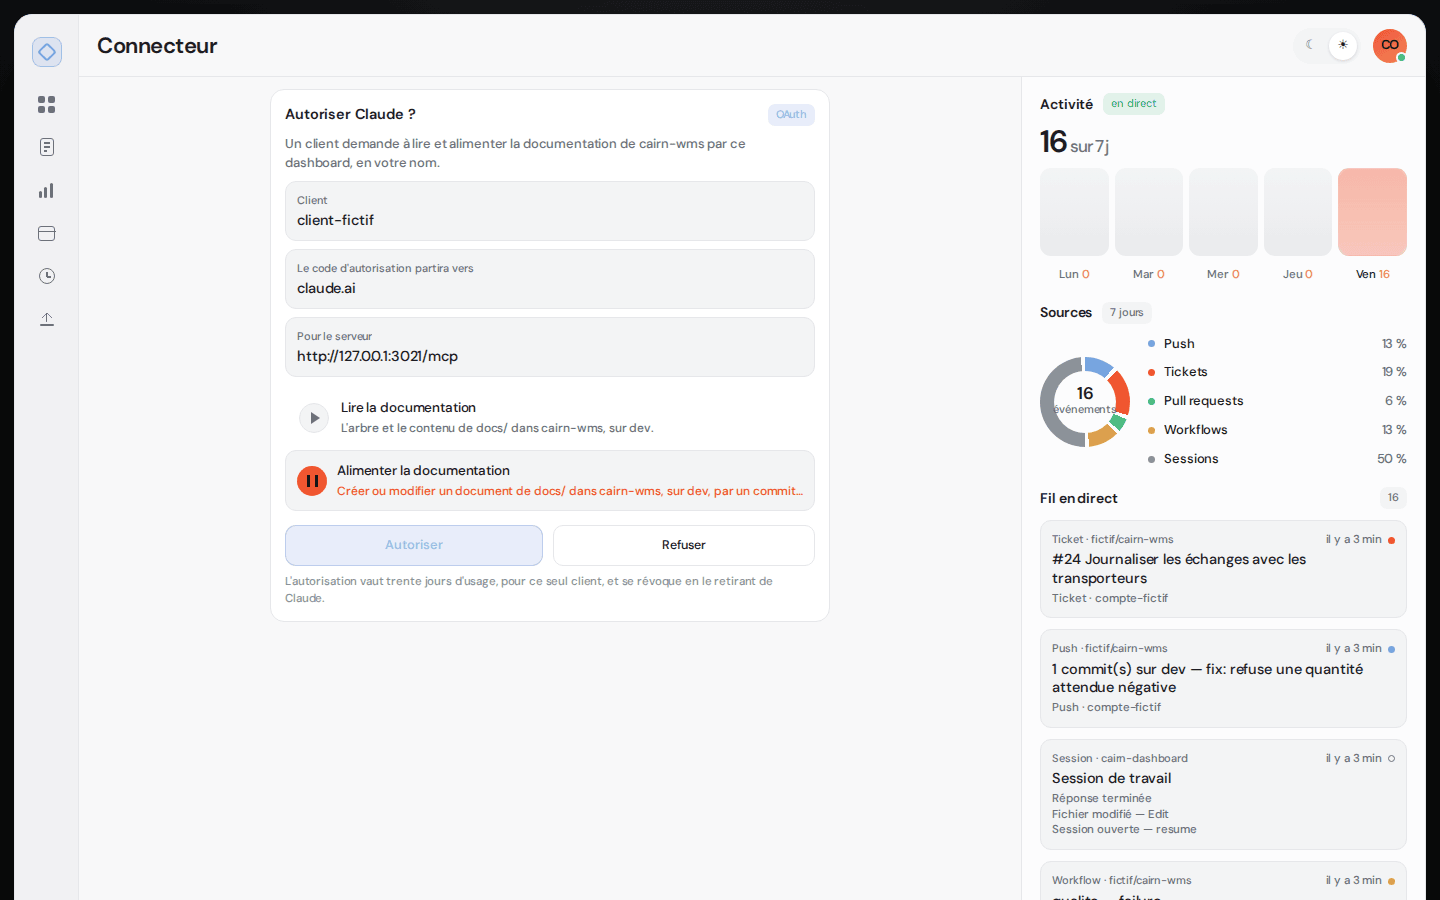
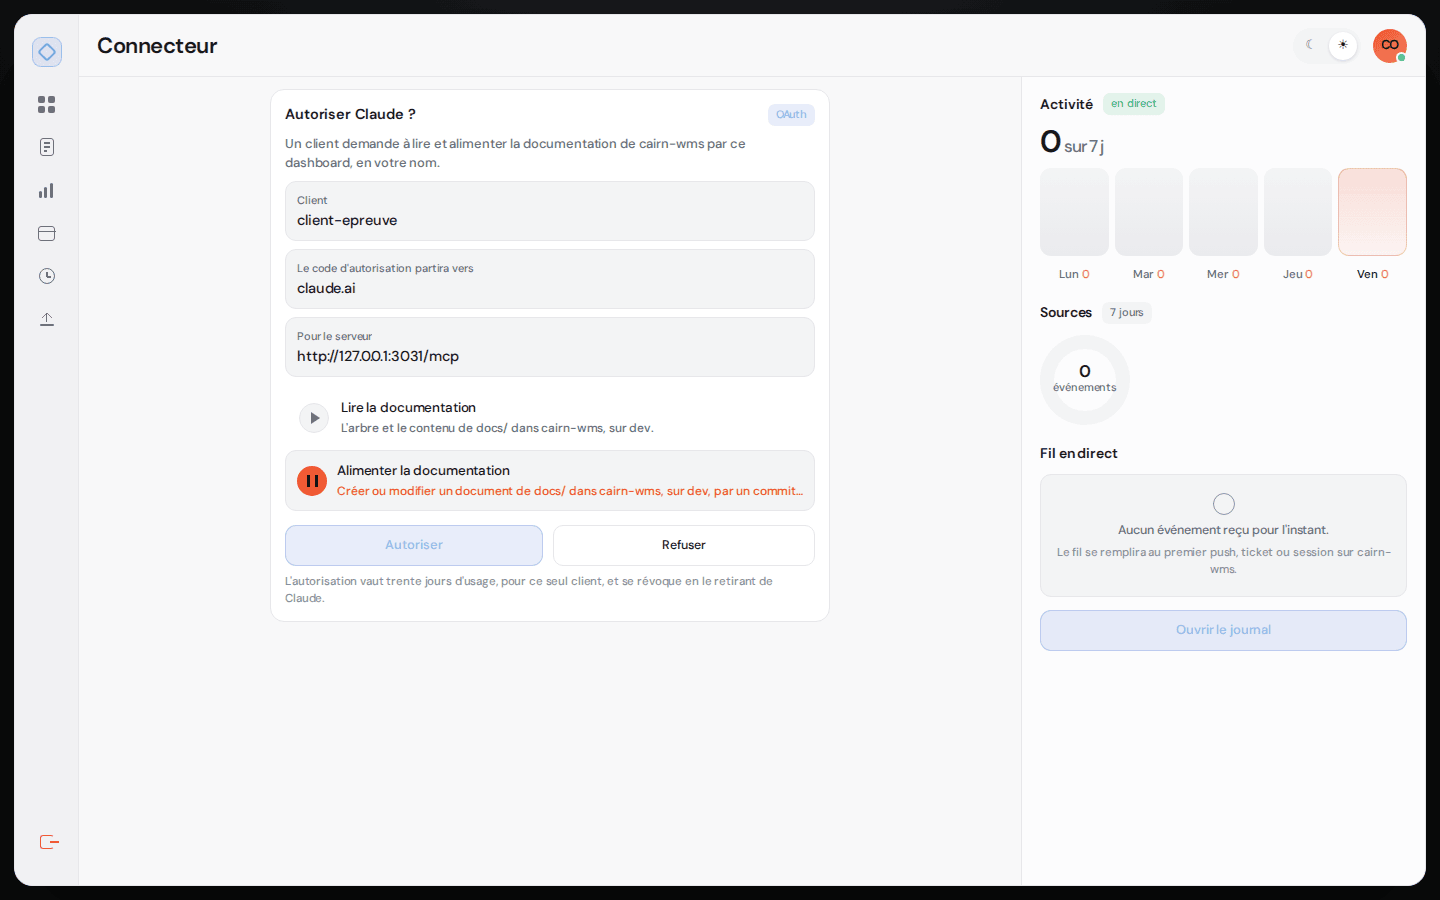
docs: livre la tranche 7, constatée avec le vrai client (#7)
Pull request #25 fusionnée par Lucas, SHA 5ef47fa déployé, contrat de
service et découverte OAuth vérifiés de l'extérieur. Claude a lu README.md
puis écrit le commit 4598471 sur dev de cairn-wms, docs/README.md, message
docs: — les deux conditions de l'issue #7, avec le client réel. Captures du
consentement refaites sur l'image de production.

diff --git a/journal/2026-09-18-2037-tranche-7-fiche-0011.md b/journal/2026-09-18-2037-tranche-7-fiche-0011.md
@@ -94,7 +94,31 @@ et comment, et elle est actée d'abord. Cette session établit les faits et écr
   - **le test de fumée** sur l'image construite, contre le vrai cairn-wms en lecture : les mêmes
     refus, le parcours complet jusqu'à `lister_documents` sur l'arbre réel, la rotation, le rejeu,
     et `/health` qui signale `connecteur: client-absent` sans configuration.
-- **Capturé l'écran de consentement**, sur données fictives, deux thèmes, deux largeurs — joint.
+- **Capturé l'écran de consentement**, sur données fictives, deux thèmes, deux largeurs — puis
+  refait sur l'image exacte de production lancée sur le poste, avec une demande en attente : ce
+  sont ces captures-là qui sont jointes.
+
+### Livraison
+
+- **Lucas a posé les deux variables dans Coolify et élargi le jeton**, puis fusionné la pull
+  request #25 (`dev` → `main`). `deploiement.yml` a déployé `5ef47fa` ; `/health` à 200 au
+  premier essai, avec `connecteur: ok`.
+- **Vérifié de l'extérieur** : `/version` sert `5ef47fa` ; les métadonnées de ressource et
+  du serveur d'autorisation sont publiques et désignent `https://monitoring.cairn-wms.fr` ; `/mcp`
+  sans jeton répond 401 avec `WWW-Authenticate: Bearer resource_metadata="…/mcp",
+  scope="docs:read docs:write"` — la forme exacte que Claude attend.
+- **Le vrai client.** Lucas a ajouté le connecteur dans Claude — URL et identifiant client —, s'est
+  connecté et a consenti : le connecteur « CairnMCP » est apparu avec ses outils. Claude a lu
+  `README.md` par `lire_document`, puis a **écrit** : le commit `4598471`, « docs: retire la mention
+  (rédigé) répétée sur les modules de la couche 1 », sur `dev` de cairn-wms, `docs/README.md`,
+  +4/−4 — chemin, branche et préfixe conformes au cadrage. Les deux conditions de l'issue #7 sont
+  constatées avec le client réel, pas seulement par script.
+- **Ce que le vrai client a montré, et que le script ne pouvait pas** : Claude demande la
+  permission à chaque appel d'outil d'un connecteur personnalisé (« Autoriser une fois »,
+  « Toujours autoriser »). C'est son garde-fou à lui, pas notre OAuth ; les outils de lecture sont
+  annoncés `readOnlyHint`, ce qui permet de les approuver en bloc, et l'écriture ne l'est pas, à
+  dessein. Une capture de Lucas en fait foi.
+- `status.yml` : tranche 7 `livré`. Issue #7 close.
 
 ## Décisions
 
@@ -125,23 +149,26 @@ Choix faits en rédigeant, à relire :
 | `scripts/ci/smoke` | Découverte, refus et parcours complet du connecteur sur l'image. |
 | `test/mcp-jetons.spec.ts`, `mcp-oauth.spec.ts`, `ecriture-doc.spec.ts`, `jetons-base.spec.ts`, `base.spec.ts` | Créés ; une attente mise à jour. |
 | `docs/connecteur-mcp.md`, `README.md` | L'ajouter dans Claude, ce qu'il peut faire, ce qu'il expose. |
-| `journal/captures/2026-09-18-tranche-7/` | L'écran de consentement, quatre captures. |
+| `journal/captures/2026-09-18-tranche-7/` | L'écran de consentement, quatre captures — image de production. |
+| `status.yml` | Tranche 7 `livré`. |
 
 ## Issues liées
 
-- `#7` — tranche 7 ; commentée : fiche proposée, puis réalisation.
+- `#7` — tranche 7 ; livrée et close par cette session.
+- `#25` — la pull request, fusionnée par Lucas.
 
 ## Points ouverts
 
-- **Pas encore livré.** Avant la fusion vers `main`, Lucas pose `NUXT_MCP_CLIENT_ID` et
-  `NUXT_MCP_SECRET` dans Coolify — `/health` les exige désormais, et le déploiement attend un 200 —
-  et élargit le jeton GitHub de production à l'écriture des contenus sur cairn-wms.
-- **Le vrai client n'a pas encore été vu.** Tout a été éprouvé par script, contre le faux GitHub
-  et contre l'image ; c'est Claude lui-même — claude.ai, puis Cowork — qui dira si la découverte, le
-  consentement et le rafraîchissement se passent comme sa documentation le décrit. La livraison se
-  constate là.
-- **Les captures jointes viennent du mode fictif** ; celles de la livraison se prendront sur l'écran
-  réel connecté, comme la règle 7 l'exige.
+- **Le rafraîchissement n'a pas encore été observé avec le vrai client** : le premier jeton d'accès
+  dure une heure ; Claude devrait le renouveler seul, comme sa documentation le décrit et comme le
+  test de fumée l'a joué. À constater à l'usage — un « Connecter » qui réapparaîtrait au bout d'une
+  heure dirait le contraire.
+- **La permission d'outil de Claude se remet parfois à zéro** après une mise à jour du serveur ou
+  de l'application (issues connues côté Anthropic) : si Claude redemande « Toujours autoriser », ce
+  n'est pas le connecteur.
+- **Claude Code reste hors du connecteur** tant que le CIMD n'est pas ajouté (fiche `0011`).
+- **La capture du consentement vient de l'image de production lancée sur le poste**, avec un
+  client d'épreuve : le vrai consentement de Lucas a eu lieu une fois, dans son navigateur.
 - **La révision de spécification que le SDK v2 implémente** (2026-07-28) est plus récente que celles
   que Claude déclare prendre en charge (jusqu'à 2025-11-25) : la négociation de version devrait
   suffire, à éprouver avec le vrai client.
